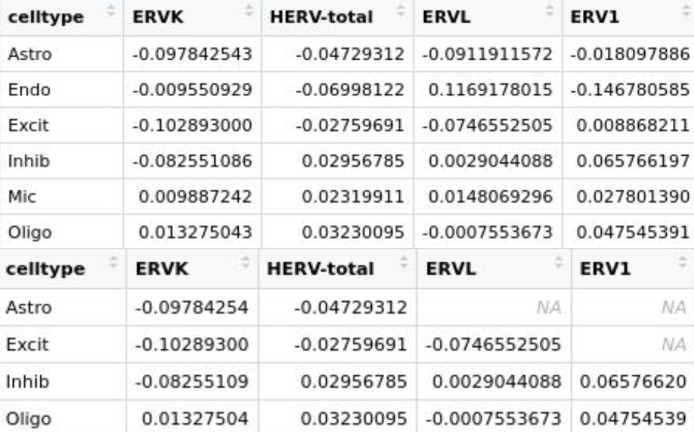
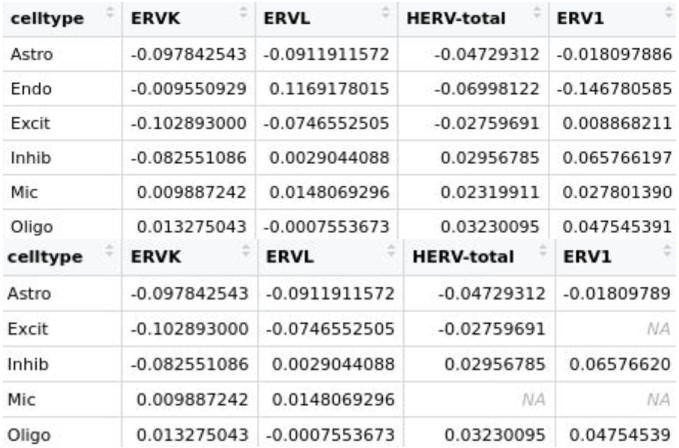
0317

diff --git a/_posts/2022-12-23-my_GSE157827_4.md b/_posts/2022-12-23-my_GSE157827_4.md
@@ -88,28 +88,32 @@ ggplot(df_long, aes(x = log10_nCount_RNA, y = expr)) +
 
 AD/NC比较管家基因的统计表格：[预览](https://lwstkhyl.me/viewFile?fileName=ncount_gene.xlsx&src=https%3A%2F%2Flwstkhyl.me%2Fapi%2Fdownload%2FGSE157827%25E6%2595%25B0%25E6%258D%25AE%252Fncount_gene.xlsx) \| [下载](https://lwstkhyl.me/api/download/GSE157827%E6%95%B0%E6%8D%AE%2Fncount_gene.xlsx)
 
-标准化后，测序深度的影响被减弱了，但没有被完全消除：
+标准化后，测序深度的影响被减弱了：
 - 虽然选的是比较常见的基因，但大部分中位数还是0（有超过一半的细胞没有表达该基因），因此diff_median就不太能作为评估标准
-- rho_nCount在几乎所有细胞类型里都还不是0：很多基因仍和nCount_RNA有正相关，而且有些还不低，即使在单一细胞类型内部，标准化后的表达仍然残留一定的深度依赖
+- 相关性系数rho_nCount几乎都在0.3以下，但测序深度的影响没有被完全消除
+- 似乎没找到什么有效的方法来证明测序深度的影响是否存在，毕竟使用的流程是Seurat官方推荐的，只能说大家都是这么做的，而且常见的都是对普通基因这种计数比较稳定的，有点影响很容易就被后面DE分析时回归掉，像hERV这种稀疏计数并不常见
 
 如何解决：
-- 在原论文中，作者确实用了`IntegrateData`来整合所有样本，然后再做PCA、UMAP和聚类。但要注意，去批次效应主要影响降维/聚类（细胞类型注释），而不是差异表达分析（DE分析使用的是标准化后的表达量，而不是去批次效应/整合后的数据）
-- “标准化后仍未完全消除nCount_RNA影响”也算是正常现象，并且`SCTransform`比一般的`LogNormalize`更能有效削弱技术效应的影响（而我之前用的是`LogNormalize`）
+- 在原论文中，作者确实用了`IntegrateData`来整合所有样本，然后再做PCA、UMAP和聚类。但要注意，**去批次效应主要影响降维/聚类（细胞类型注释），而不是差异表达分析（DE分析使用的是标准化后的表达量，而不是去批次效应/整合后的数据）**
 - `ScaleData`在预处理阶段直接改写表达矩阵，不能把`orig.ident`（样本因素）直接作为参数`vars.to.regress`的值，相当于在做PCA/UMAP/聚类前，就尝试把donor差异从表达里整体减掉，而这组数据里样本和疾病状态直接相关，有风险把真正的疾病信号也一起削掉
-- “在后续差异表达分析时，把nCount_RNA作为协变量回归”也算是正常方法，虽然更广泛更科学的方法是pseudobulk
-  - 在`FindMarkers`时用`test.use="MAST"` + `latent.vars=c("nCount_RNA","percent_mito")`（而不是之前的`latent.vars=c("orig.ident","nCount_RNA","percent_mito")`)，原因同上，防止把真正的疾病效应消除。如果是同一个donor但有两种不同疾病状态，就可以加上
+- “在后续差异表达分析时，把nCount_RNA作为协变量回归”也算是正常方法，虽然更广泛更科学的方法是pseudobulk（以样本而不是细胞为单位进行分析）
+  - 在`FindMarkers`时用`latent.vars=c("nCount_RNA","percent_mito")`（而不是之前的`latent.vars=c("orig.ident","nCount_RNA","percent_mito")`，原因同上，防止把真正的疾病效应消除。如果是同一个donor但有两种不同疾病状态，就可以加上）
 - “细胞亚群聚类时，某一个cluster中会有某一个或者几个样本占很大部分”有可能是正常现象
   - 如果某个亚群本来就是一种比较少见、容易受疾病或个体状态影响的细胞状态，那么它在少数donor里明显富集是完全可能的，尤其在样本数本来就不多的情况下
   - 但仍需根据`nCount_RNA`/`percent_mito`来判断是不是异常细胞聚集
-  - `SCTransform+integration`的处理不一定能完全减少这种现象，比如上面说的“某亚群真的是一种特殊状态”，整合就不一定把它抹平，有时它也不该被抹平；过度整合有可能把真实生物差异也削弱
+  - `SCTransform+integration`的处理不一定能完全减少这种现象，比如上面说的“某亚群真的是一种特殊状态”，去批次效应就不一定把它抹平，有时它也不该被抹平；过度整合有可能把真实生物差异也削弱
 
-因此最后还是觉得从头走一遍`SCTransform+integration`的流程比较好，除了和论文对齐、尽量消除测序深度的影响外，更主要还是觉得数据预处理的流程（尤其是hERV表达量计算的步骤）更改了好几次，可能改的有点乱，为了最后汇总代码也应该从头运行一遍
+因此最后还是觉得从头走一遍去批次效应的流程比较好，除了和论文对齐、尽量消除测序深度的影响外，更主要还是觉得数据预处理的流程（尤其是hERV表达量计算的步骤）更改了好几次，可能改的有点乱，为了最后汇总代码也应该从头运行一遍
 - 按样本拆分后，每个样本分别做`SCTransform`，之后再`IntegrateData`：如果直接`SCTransform`，就相当于把所有细胞当成一个整体，用一个模型统一做归一化/方差稳定化，适用于单一样本/样本很少且批次效应不明显/不准备做integration的情况；如果想减少样本来源对聚类的影响，想让同类细胞更多地按细胞类型聚在一起，就还是分别`SCTransform`
-- 后续的聚类和细胞类型注释使用`"SCT"`作为`DefaultAssay`：`"integrated"`的assay是“让不同样本更可比”，不是保留原始生物表达幅度
-- DE分析使用`"RNA"`，配合MAST+协变量（`nCount_RNA`+`percent_mito`），虽然SCT做DE也可以，但因为我的hERV是用的仿`NormalizeData`的标准化方法，为了后面hERV~gene共表达分析时更准确合理，普通基因就也用`NormalizeData`了
+  - 后续的DE分析使用`"SCT"`作为`DefaultAssay`：`"integrated"`的assay是“让不同样本更可比”，不是保留原始生物表达幅度
+- 后来实际运行了一下`SCTransform+integration`流程，可能是因为服务器内存不够，最后还是改成了`NormalizeData+harmony`流程，得到的结果与之前的差的不是很多，不过确实能看到样本分布更均匀了
+  - 除了`SCTransform+integration`流程有亿点点耗时耗内存之外，最主要的原因是我的hERV是用的仿`NormalizeData`的标准化方法，为了后面hERV~gene共表达分析时更准确合理，普通基因就也用`NormalizeData`了
+  - 为什么不把hERV也改成仿SCT的处理方式：SCT主要是为常规基因表达设计和验证的，而hERV矩阵更稀疏、特征数更少，而且计数来源于重复序列重分配结果，不完全等同于普通基因UMI计数，不太清楚是否符合SCT的建模假设。还是先把gene和hERV放在同一背景下比较稳定、比较可实现
+- 关于MAST方法协变量设置的问题：是否加上协变量`nCount_RNA+percent_mito`？按理论来讲，MAST方法内部已经设置了和测序深度相关的指标，所以如果再加上nCount_RNA可能会有过度校正的风险（[参考](https://github.com/satijalab/seurat/issues/9939)）；如果是其它的可以设置协变量的方法，其实是可以加的
 - 选某一细胞类型再做亚群聚类：
-  - 如果想沿用`SCTransform+integration`，就`DefaultAssay(astro) <- "integrated"`，然后RunPCA等，这种方法最简单，但如果全局整合时细胞类型内部细粒度差异没有被很好保留，亚群分辨率可能一般
-  - 也可以使用最普通的方法`NormalizeData + FindVariableFeatures + ScaleData + PCA + UMAP + 聚类`，适用于这个细胞类型内部的样本效应不算特别严重的情况
+  - 可以继续用`SCTransform+integration`，就`DefaultAssay(astro) <- "integrated"`，然后RunPCA等，这种方法最简单，但如果全局整合时细胞类型内部细粒度差异没有被很好保留，亚群分辨率可能一般
+  - 最普通的方法（第一次我采用的方式）：`NormalizeData + FindVariableFeatures + ScaleData + PCA + UMAP + 聚类`，适用于这个细胞类型内部的样本效应不算特别严重的情况
+  - 还可以沿用之前的思路`NormalizeData+harmony`（现在我采用的方式）
   - 最严格的方法：先取出目标细胞类型，再按样本拆分，只在这个细胞类型内部做`SplitObject + SCTransform + IntegrateData`，有时会比第一种方法更能保留细胞类型内部细粒度结构，适用于这个细胞类型内部仍明显按样本分开的情况
 
 ### gtf文件-hERV家族名
@@ -117,6 +121,7 @@ AD/NC比较管家基因的统计表格：[预览](https://lwstkhyl.me/viewFile?f
 所有位点都有gene行（都有intModel），而所有的intModel都是以`-int`结尾的，同时大多数位点exon行的geneRegion都分为internal和ltr（前病毒结构分为`两端LTR`与`内部区internal`，env/gag/pol都包含在这个内部区里），internal和ltr对应的repName可能不同，但这不体现在位点名上（所有的位点名都是"ERV316A3_1p36.33"这种，不标识具体是int还是ltr）。因此在本研究的位点/亚家族聚合分析中，`-int`后缀不提供额外的分层信息
 - 去掉`-int`后缀：去掉的不是“生物学上的internal信息”本身，而只是把它从亚家族命名里去掉，让亚家族标签更简洁、更适合聚合统计。LTR/internal的结构差异并没有消失，因为它仍然可以在exon的geneRegion里看到
 - “不体现在位点名上”更准确的说法：位点名本身不编码LTR/internal信息，因此`-int`在当前gene-level位点聚合中主要体现的是注释来源（internal model），而不是可进一步区分的位点层级类别
+- 我找的那篇RNA-seq+telescope的文献，似乎也没有提到`-int`的事
 
 ### 继续之前的细胞类型-hERV家族水平重调分析
 
@@ -247,7 +252,7 @@ saveRDS(
 ```r
 res_oligo_focus <- res_subfamily %>%
   filter(
-    celltype == "Astro",
+    celltype == "Oligo",
     !is.na(p_val_adj),
     p_val_adj < 0.05,
     abs(avg_log2FC) >= 0.05,
@@ -306,7 +311,7 @@ res_astro_focus <- res_subfamily %>%
   filter(
     !subfamily %in% c("HUERS-P1", "Harlequin", "PRIMA4"),
     !grepl("^(MER|ERV)", subfamily)
-  )
+  ) %>%
   arrange(desc(abs(avg_log2FC)), p_val_adj)
 ```
 
@@ -392,8 +397,180 @@ res_inhib_focus <- res_subfamily %>%
 
 在发生herv重调的细胞亚群中，哪些基因/通路受到特异的调控，是否与AD相关
 
-**以oligo的cluster 9为例**：包含300多个NC和600多个AD，HERVK表达量较高
-- 这个hERV重调亚群本身，哪些基因/通路是这个亚群特异的：即这个亚群和其它亚群对比
-- 这个亚群里的基因/通路，哪些又和AD相关
-- 看这个亚群内哪些基因与hERVK表达有关（`gene ~ hERV + nCount_RNA + percent_mito`）
+**以oligo的cluster 3为例**：包含1200多个NC和1800多个AD，HERVK表达量较高
+- step 1：这个hERV重调亚群本身，哪些基因/通路是这个亚群特异的：即这个亚群和其它亚群对比
+- step 2：这个亚群里的基因/通路，哪些又和AD相关
+- step 3：看这个亚群内哪些基因与hERVK表达有关（`gene ~ hERV + nCount_RNA + percent_mito`）
 
+**step 1**：
+
+```r
+DefaultAssay(oligo) <- "RNA"
+Idents(oligo) <- oligo$subcluster
+other_ids <- setdiff(levels(Idents(oligo)), "3")
+res_rna_3_vs_rest <- FindMarkers(
+  oligo,
+  ident.1 = "3",
+  ident.2 = other_ids,
+  test.use = "MAST",
+  # latent.vars = c("nCount_RNA", "percent_mito"),
+  min.pct = 0.1,
+  logfc.threshold = 0
+) %>%
+  rownames_to_column("gene") %>%
+  arrange(p_val_adj, desc(abs(avg_log2FC)))
+View(res_rna_3_vs_rest)
+sig_3_up <- res_rna_3_vs_rest %>%
+  filter(!is.na(p_val_adj), p_val_adj < 0.05, avg_log2FC > 0.25) %>%
+  pull(gene)
+sig_3_down <- res_rna_3_vs_rest %>%
+  filter(!is.na(p_val_adj), p_val_adj < 0.05, avg_log2FC < -0.25) %>%
+  pull(gene)
+write.csv(res_rna_3_vs_rest %>% filter(p_val_adj < 0.05, abs(avg_log2FC) > 0.25), file = "C:\\Users\\17185\\Desktop\\hERV_calc\\GSE157827\\my_res\\oligo_3_test\\res_rna_3_vs_rest.csv")
+```
+
+![my_GSE157827_4_26](/upload/md-image/other/my_GSE157827_4_26.jpg){:width="600px" height="600px"}
+
+**step 2**：
+
+```r
+oligo3 <- subset(oligo, idents = "3")
+Idents(oligo3) <- factor(oligo3$group, levels = c("NC", "AD"))
+res_rna_AD_vs_NC_in3 <- FindMarkers(
+  oligo3,
+  ident.1 = "AD",
+  ident.2 = "NC",
+  test.use = "MAST",
+  # latent.vars = c("nCount_RNA", "percent_mito"),
+  min.pct = 0.1,
+  logfc.threshold = 0
+) %>%
+  rownames_to_column("gene") %>%
+  arrange(p_val_adj, desc(abs(avg_log2FC)))
+View(res_rna_AD_vs_NC_in3)
+sig_3_AD_up <- res_rna_AD_vs_NC_in3 %>%
+  filter(!is.na(p_val_adj), p_val_adj < 0.05, avg_log2FC > 0.25) %>%
+  pull(gene)
+sig_3_AD_down <- res_rna_AD_vs_NC_in3 %>%
+  filter(!is.na(p_val_adj), p_val_adj < 0.05, avg_log2FC < -0.25) %>%
+  pull(gene)
+write.csv(res_rna_AD_vs_NC_in3 %>% filter(p_val_adj < 0.05, abs(avg_log2FC) > 0.25), file = "C:\\Users\\17185\\Desktop\\hERV_calc\\GSE157827\\my_res\\oligo_3_test\\res_rna_AD_vs_NC_in3.csv")
+```
+
+![my_GSE157827_4_27](/upload/md-image/other/my_GSE157827_4_25.jpg){:width="600px" height="600px"}
+
+**哪些基因既是cluster3特异的，又和AD相关**：
+
+```r
+genes_3_and_AD_up <- intersect(sig_3_up, sig_3_AD_up)
+genes_3_and_AD_down <- intersect(sig_3_down, sig_3_AD_down)
+tab_3 <- res_rna_3_vs_rest %>%
+  dplyr::select(gene, avg_log2FC_3 = avg_log2FC, p_val_adj_3 = p_val_adj)
+tab_ad <- res_rna_AD_vs_NC_in3 %>%
+  dplyr::select(gene, avg_log2FC_ad = avg_log2FC, p_val_adj_ad = p_val_adj)
+tab_merge <- inner_join(tab_3, tab_ad, by = "gene") %>%
+  mutate(
+    same_direction = sign(avg_log2FC_3) == sign(avg_log2FC_ad),
+    both_sig = !is.na(p_val_adj_3) & !is.na(p_val_adj_ad) &
+               p_val_adj_3 < 0.05 & p_val_adj_ad < 0.05
+  ) %>%
+  arrange(desc(both_sig), desc(same_direction), desc(abs(avg_log2FC_3) + abs(avg_log2FC_ad)))
+View(tab_merge)
+```
+
+![my_GSE157827_4_25](/upload/md-image/other/my_GSE157827_4_25.jpg){:width="600px" height="600px"}
+
+**step 3**：
+
+```r
+top_overlap <- tab_merge %>%
+  filter(both_sig, same_direction) %>%
+  filter(!grepl("^(ENSG|MT-|LINC-)|(AC|AL)[0-9]", gene)) %>%
+  pull(gene)
+DefaultAssay(oligo3) <- "HERV_family"
+subfam_use <- c("HERVK", "HERVK3", "HERVK14", "HERVK9", "HERVK13", "HERVK22")  # 关注的几个hERV家族
+DefaultAssay(oligo3) <- "RNA"
+gene_use <- top_overlap
+gene_use <- intersect(gene_use, rownames(oligo3[["RNA"]]))
+meta3 <- oligo3@meta.data
+residualize_vec <- function(y, meta) {  # 将测序深度做协变量
+  fit <- lm(y ~ nCount_RNA + percent_mito, data = meta)
+  resid(fit)
+}
+herv_mat <- GetAssayData(oligo3, assay = "HERV_family", slot = "data")[subfam_use, , drop = FALSE]
+rna_mat  <- GetAssayData(oligo3, assay = "RNA", slot = "data")[gene_use, , drop = FALSE]
+herv_resid <- t(apply(as.matrix(herv_mat), 1, residualize_vec, meta = meta3))
+rna_resid  <- t(apply(as.matrix(rna_mat), 1, residualize_vec, meta = meta3))
+res_list <- vector("list", length = nrow(herv_resid) * nrow(rna_resid))
+k <- 1
+for (i in seq_len(nrow(herv_resid))) {
+  for (j in seq_len(nrow(rna_resid))) {
+    x <- as.numeric(herv_resid[i, ])
+    y <- as.numeric(rna_resid[j, ])
+    ok <- is.finite(x) & is.finite(y)
+    x <- x[ok]
+    y <- y[ok]
+    if (length(x) < 10 || sd(x) == 0 || sd(y) == 0) {
+      res_list[[k]] <- data.frame(
+        subfamily = rownames(herv_resid)[i],
+        gene      = rownames(rna_resid)[j],
+        rho       = NA_real_,
+        p_val     = NA_real_,
+        n         = length(x)
+      )
+    } else {
+      ct <- suppressWarnings(
+        cor.test(x, y, method = "spearman", exact = FALSE)
+      )
+      res_list[[k]] <- data.frame(
+        subfamily = rownames(herv_resid)[i],
+        gene      = rownames(rna_resid)[j],
+        rho       = unname(ct$estimate),
+        p_val     = ct$p.value,
+        n         = length(x)
+      )
+    }
+    k <- k + 1
+  }
+}
+cor_df <- bind_rows(res_list) %>%
+  mutate(
+    p_adj = p.adjust(p_val, method = "BH")
+  ) %>%
+  arrange(p_adj, p_val, desc(abs(rho)))
+write.csv(cor_df, file = "C:\\Users\\17185\\Desktop\\hERV_calc\\GSE157827\\my_res\\oligo_3_test\\herv_gene_cor.csv")
+cor_df_filt <- cor_df %>%
+  filter(!is.na(rho), !is.na(p_val)) %>%
+  filter(p_val < 0.05)
+rho_mat <- cor_df_filt %>%
+  dplyr::select(subfamily, gene, rho) %>%
+  tidyr::pivot_wider(names_from = gene, values_from = rho) %>%
+  as.data.frame()
+rownames(rho_mat) <- rho_mat$subfamily
+rho_mat$subfamily <- NULL
+rho_mat <- as.matrix(rho_mat)
+row_score <- rowMeans(rho_mat, na.rm = TRUE)
+col_score <- colMeans(rho_mat, na.rm = TRUE)
+row_score[is.nan(row_score)] <- -Inf
+col_score[is.nan(col_score)] <- -Inf
+row_ord <- order(row_score, decreasing = TRUE)
+col_ord <- order(col_score, decreasing = TRUE)
+rho_mat_ord <- rho_mat[row_ord, col_ord, drop = FALSE]
+rho_mat_ord[is.na(rho_mat_ord)] <- 0
+p <- pheatmap(
+  rho_mat_ord,
+  cluster_rows = FALSE,
+  cluster_cols = FALSE,
+  # na_col = "grey90",
+  fontsize_row = 10,
+  fontsize_col = 5,
+  angle_col = 45
+)
+pdf("C:\\Users\\17185\\Desktop\\hERV_calc\\GSE157827\\my_res\\oligo_3_test\\pheatmap.pdf", width = 15, height = 8)
+print(p)
+dev.off()
+```
+
+![my_GSE157827_4_29](/upload/md-image/other/my_GSE157827_4_29.jpg){:width="500px" height="500px"}
+
+![my_GSE157827_4_28](/upload/md-image/other/my_GSE157827_4_28.jpg){:width="900px" height="900px"}

diff --git a/_posts/2022-11-29-毕设代码.md b/_posts/2022-11-29-毕设代码.md
@@ -12,10 +12,9 @@ subcategory: other-other
 与最初版本的主要区别：
 - 直接用最新的hERV计数结果构建Seurat对象，而不是将新数据覆盖旧数据
 - 筛选hERV位点时不根据细胞表达比例，保留除"--no-feature"以外的所有hERV位点，让后面按family聚合时更准确
-- 使用`SCTransform+integration`流程做数据预处理，尽量和论文对齐，尽量消除测序深度的影响
-  - 因为服务器内存限制，后改为用`NormalizeData+harmony`来做
+- 使用`NormalizeData+harmony`流程做数据预处理，尽量和论文对齐，尽量减少批次效应的影响
 - 修改“构建hERV位点-家族映射”代码，subfamily仅从gtf文件的gene行提取，不再自己根据subfamily名称合并家族，所有的subfamily和class都从gtf文件中获取，且最后只留这两个assay（和原本的位点assay）
-- 为所有的DE分析添加/修改协变量为"nCount_RNA"+"percent_mito"，方法使用MAST
+- 为所有的DE分析指定方法使用MAST
 
 ### 计数
 
@@ -467,9 +466,9 @@ dev.off()
 
 #### 细胞类型注释
 
+以下是接续harmony流程的，如果用SCT流程，除了设置`DefaultAssay(seu) <- "SCT"`，还可能需要先运行`PrepSCTFindMarkers()`
+
 ```r
-# 如果做了SCTransform
-# DefaultAssay(seu) <- "SCT"
 # marker基因
 gene_list <- list(
   Astro = c("AQP4", "ADGRV1", "GPC5", "RYR3"),
@@ -639,7 +638,7 @@ all_markers <- lapply(ct, function(x){
     ident.1 = paste0("AD_", x),
     ident.2 = paste0("NC_", x),
     test.use = "MAST",
-    latent.vars = c("nCount_RNA", "percent_mito"),
+    # latent.vars = c("nCount_RNA", "percent_mito"),
     logfc.threshold = 0.25,
     min.pct = 0.1
   )
@@ -649,7 +648,7 @@ lapply(all_markers, nrow)
 all_markers_sig <- lapply(all_markers, function(df){
   df2 <- subset(
     df, 
-    p_val_adj < 0.1
+    p_val_adj < 0.05
   )
   return(df2)
 })
@@ -828,7 +827,6 @@ seu[["HERV_class"]] <- new_assay
 # 准备差异分析
 Idents(seu) <- factor(seu$group, levels = c("NC","AD"))
 DefaultAssay(seu) <- "HERV_class"
-latent <- c("nCount_RNA", "percent_mito")
 ```
 
 **全体细胞**：
@@ -838,7 +836,7 @@ res_all <- FindMarkers(
   object = seu,
   ident.1 = "AD", ident.2 = "NC",
   test.use = "MAST",
-  latent.vars = latent,
+  # latent.vars = c("nCount_RNA", "percent_mito"),
   logfc.threshold = 0, min.pct = 0, return.thresh = 1
 )
 write.csv(res_all, file.path(res_dir, "hERV_class_all.csv"))
@@ -857,7 +855,7 @@ run_one_ct <- function(ct) {
     object = obj,
     ident.1 = "AD", ident.2 = "NC",
     test.use = "MAST",
-    latent.vars = latent,
+    # latent.vars = c("nCount_RNA", "percent_mito"),
     logfc.threshold = 0, min.pct = 0, return.thresh = 1
   )
   out <- fm %>%
@@ -973,7 +971,7 @@ run_de_one_celltype <- function(seu, ct) {
     ident.1 = "AD",
     ident.2 = "NC",
     test.use = "MAST",
-    latent.vars = c("nCount_RNA", "percent_mito"),
+    # latent.vars = c("nCount_RNA", "percent_mito"),
     min.pct = 0.05,
     logfc.threshold = 0
   )
@@ -1002,18 +1000,16 @@ write.csv(res_subfamily, file.path(res_dir, "hERV_family_celltype.csv"))
 get_subCelltype <- function(ct, pc.use=1:30, harmony=F, resolution=0.3){
   sub <- subset(seu, subset = celltype == ct)
   DefaultAssay(sub) <- "RNA"
-  sub <- FindVariableFeatures(sub, nfeatures = 2000, verbose = FALSE)
+  sub <- FindVariableFeatures(sub, nfeatures = 2000)
   sub <- ScaleData(
     sub,
     vars.to.regress = c("nCount_RNA", "percent_mito"),
     features = VariableFeatures(sub),
-    verbose = FALSE
   )
   sub <- RunPCA(
     sub,
     npcs = 50,
     features = VariableFeatures(sub),
-    verbose = FALSE
   )
   pdf(file.path(res_dir, paste0(ct, "_ElbowPlot.pdf")), width = 8, height = 8)
   print(ElbowPlot(sub, ndims = 50))
@@ -1025,13 +1021,12 @@ get_subCelltype <- function(ct, pc.use=1:30, harmony=F, resolution=0.3){
       reduction.use = "pca",
       dims.use = pc.use,
       assay.use = "RNA",
-      verbose = TRUE
     )
-    sub <- RunUMAP(sub, reduction = "harmony", dims = pc.use, verbose = FALSE)
-    sub <- FindNeighbors(sub, reduction = "harmony", dims = pc.use, verbose = FALSE)
+    sub <- RunUMAP(sub, reduction = "harmony", dims = pc.use)
+    sub <- FindNeighbors(sub, reduction = "harmony", dims = pc.use)
   } else {
-    sub <- RunUMAP(sub, dims = pc.use, verbose = FALSE)
-    sub <- FindNeighbors(sub, dims = pc.use, verbose = FALSE)
+    sub <- RunUMAP(sub, dims = pc.use)
+    sub <- FindNeighbors(sub, dims = pc.use)
   }
   sub <- FindClusters(sub, resolution = c(0.01,0.05,0.1,0.2,0.3,0.4,0.5))
   pdf(file.path(res_dir, paste0(ct, "_umap_sample_group.pdf")), width = 16, height = 8)
@@ -1047,10 +1042,10 @@ get_subCelltype <- function(ct, pc.use=1:30, harmony=F, resolution=0.3){
   dev.off()
   return(sub)
 }
-astro <- get_subCelltype("Astro", )
-excit <- get_subCelltype("Excit", )
-oligo <- get_subCelltype("Oligo", )
-inhib <- get_subCelltype("Inhib", )
+astro <- get_subCelltype("Astro", pc.use = 1:20, harmony = T, resolution = 0.2)
+excit <- get_subCelltype("Excit", pc.use = 1:30, harmony = T, resolution = 0.3)
+oligo <- get_subCelltype("Oligo", pc.use = 1:20, harmony = T, resolution = 0.3)
+inhib <- get_subCelltype("Inhib", pc.use = 1:30, harmony = T, resolution = 0.3)
 saveRDS(
   astro, 
   file = "/public/home/GENE_proc/wth/GSE157827/my_data/GSE157827_astro.rds", 

diff --git a/_posts/2022-11-30-毕设正文和图片.md b/_posts/2022-11-30-毕设正文和图片.md
@@ -97,7 +97,7 @@ Astro  Endo Excit Inhib   Mic Oligo
 
 **全体细胞**：
 
-![毕设正文和图片8](/upload/md-image/other/毕设正文和图片8.jpg){:width="400px" height="400px"}
+![毕设正文和图片8](/upload/md-image/other/毕设正文和图片8.jpg){:width="500px" height="500px"}
 
 **各细胞类型**：
 
